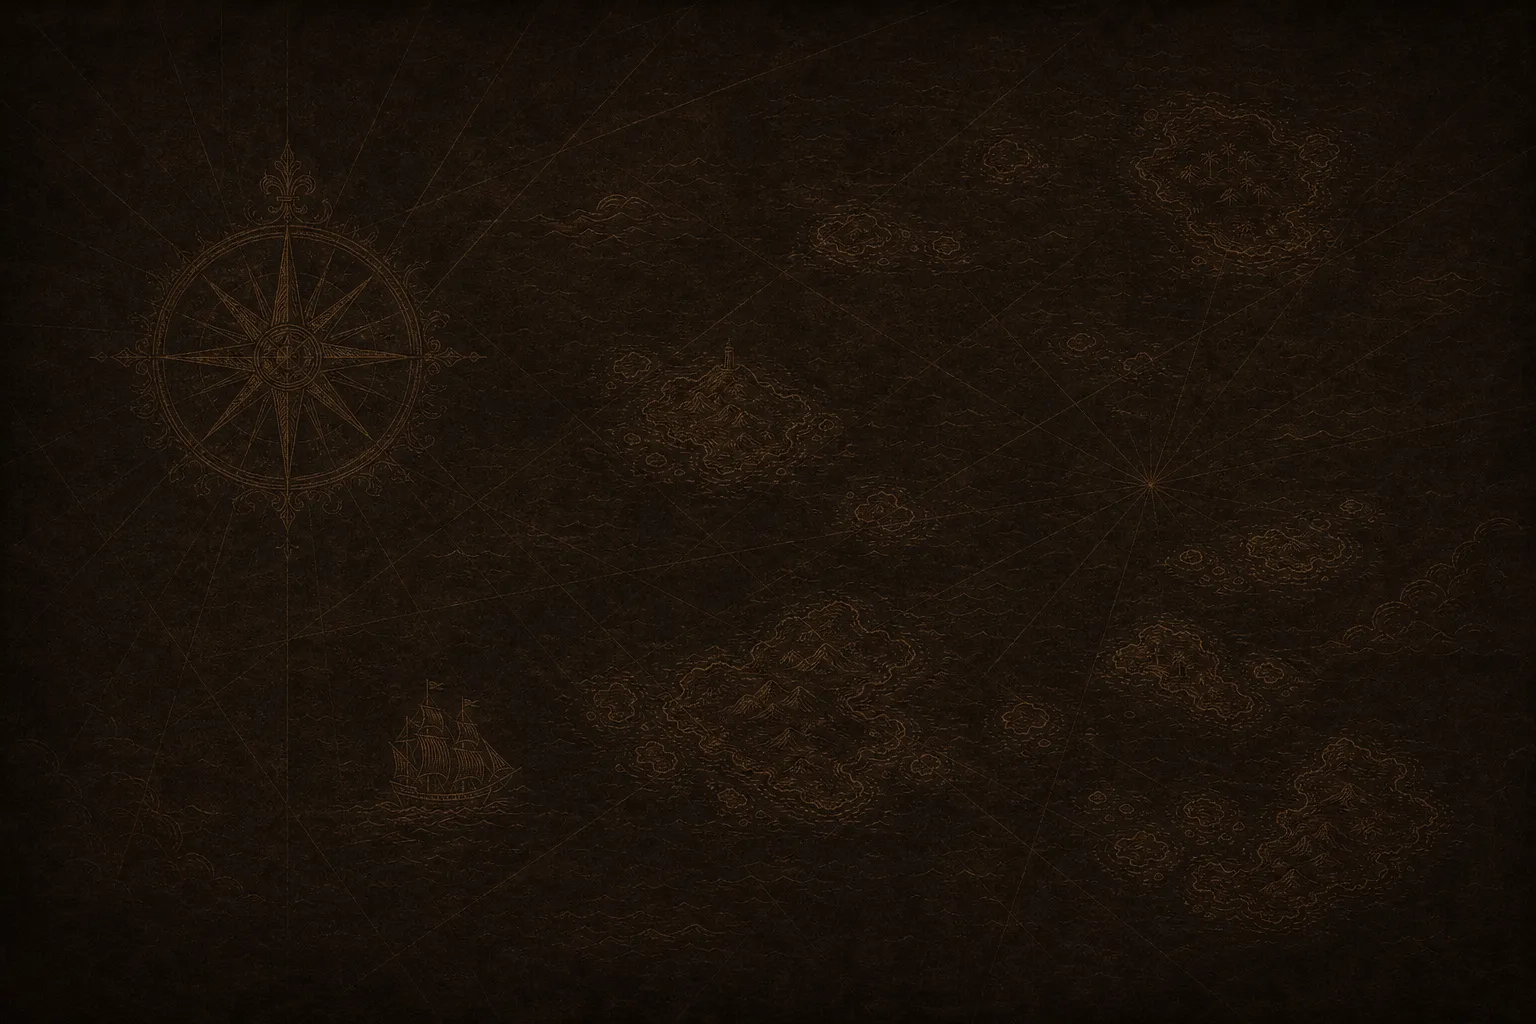
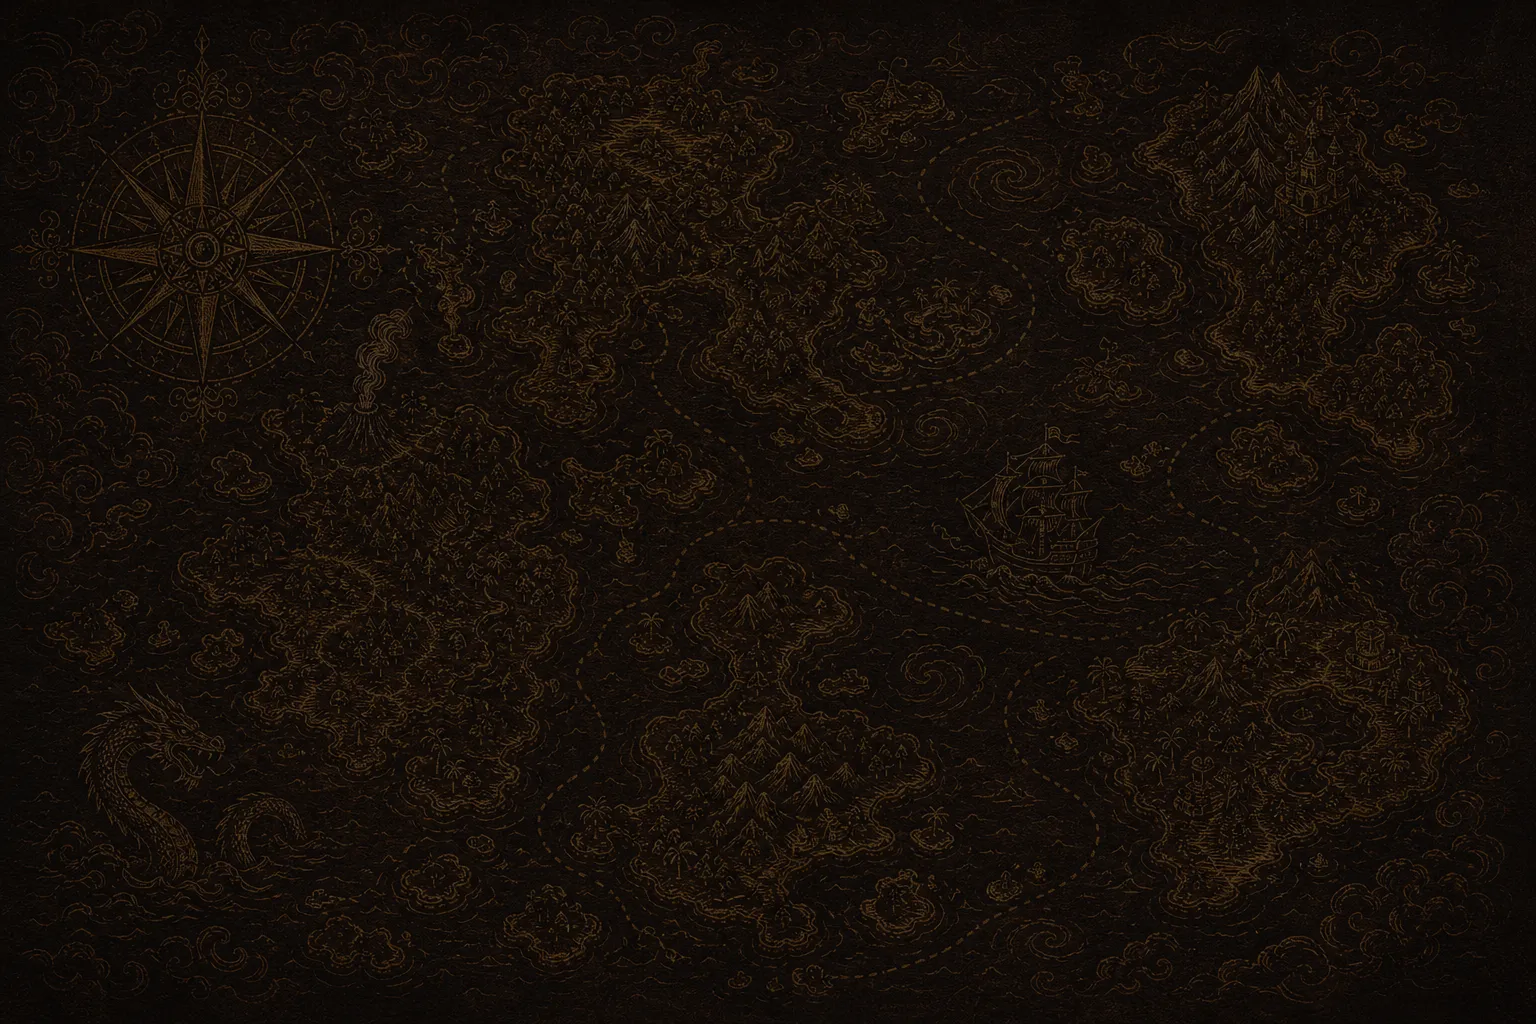
Setup/lobby backgrounds: harbour (single), galleon (multi), sea chart (lobby)
Claude-Session: https://claude.ai/code/session_013sjMXzgNW8RNoyAHnNNuvx

diff --git a/index.html b/index.html
@@ -1592,10 +1592,11 @@ html.phone #deco .ml{height:54vh}html.phone #deco .mr{height:60vh}
 html.phone #deco .bl{height:56vh}html.phone #deco .br{height:50vh}
 
 
-/* setup / lobby: faint illustration under the leather (preview ?fbg=A|B|C) */
-html[data-fbg] .sheet-frame::before{content:'';position:absolute;inset:0;background:var(--fbgi) left center/cover no-repeat;mix-blend-mode:screen;opacity:.85;pointer-events:none;z-index:0}
-html[data-fbg="A"]{--fbgi:url(assets/fbg/A.webp)}html[data-fbg="B"]{--fbgi:url(assets/fbg/B.webp)}html[data-fbg="C"]{--fbgi:url(assets/fbg/C.webp)}
-html[data-fbg] .sheet-frame>.fhead,html[data-fbg] .sheet-frame>.fbody{position:relative;z-index:1}
+/* setup / lobby: faint illustration under the leather — single: harbour painting, multi: galleon engraving, lobby: sea chart */
+.sheet-frame.sheet-single,.sheet-frame.sheet-multi,.sheet-frame.sheet-lobby{--fbgi:url(assets/fbg/C.webp)}
+.sheet-frame.sheet-multi{--fbgi:url(assets/fbg/B.webp)}.sheet-frame.sheet-lobby{--fbgi:url(assets/fbg/A.webp)}
+.sheet-frame.sheet-single::before,.sheet-frame.sheet-multi::before,.sheet-frame.sheet-lobby::before{content:'';position:absolute;inset:0;background:var(--fbgi) left center/cover no-repeat;mix-blend-mode:screen;opacity:.85;pointer-events:none;z-index:0}
+.sheet-frame>.fhead,.sheet-frame>.fbody{position:relative;z-index:1}
 /* title ambience: sun glow + rays, gold dust, logo shine */
 .title .tsun{position:absolute;left:calc(3vw - 22vmax);top:calc(37% - 22vmax);width:44vmax;height:44vmax;border-radius:50%;pointer-events:none;mix-blend-mode:screen;background:radial-gradient(circle,rgba(255,205,130,.75) 0,rgba(255,160,80,.35) 20%,rgba(255,120,60,.12) 46%,transparent 70%);animation:tsunB 7s ease-in-out infinite alternate}
 @keyframes tsunB{from{opacity:.75;transform:scale(.96)}to{opacity:1;transform:scale(1.05)}}
@@ -3121,7 +3122,6 @@ function showCredits(){openDialog(`<h3>Credits &amp; Licenses</h3><div class="cr
   <p class="cmuted">배경음악·효과음·영상: Pixabay (Pixabay Content License)<br>첫 화면 반짝임 입자: Kenney Particle Pack (CC0)</p></div><div class="row"><button class="btn sub" id="crOk">확인</button></div>`);$('#crOk').onclick=closeDialog;}
 
 // table dressing around the sea: curtains, valance and corner props, darkened behind the UI (pointer-transparent)
-{const m=/[?&]fbg=([ABC])/.exec(location.search);if(m)document.documentElement.dataset.fbg=m[1];}
 function addDeco(){if(!/[?&]deco=1/.test(location.search)||document.getElementById('deco'))return;const st=document.getElementById('stage');if(!st)return;const d=document.createElement('div');d.id='deco';
   d.innerHTML='<i class="dk cur l"></i><i class="dk cur r"></i><i class="dk ml"></i><i class="dk mr"></i><i class="dk bl"></i><i class="dk br"></i><i class="dvig"></i>';
   const cv=st.querySelector('canvas');if(cv&&cv.nextSibling)st.insertBefore(d,cv.nextSibling);else st.appendChild(d);}
